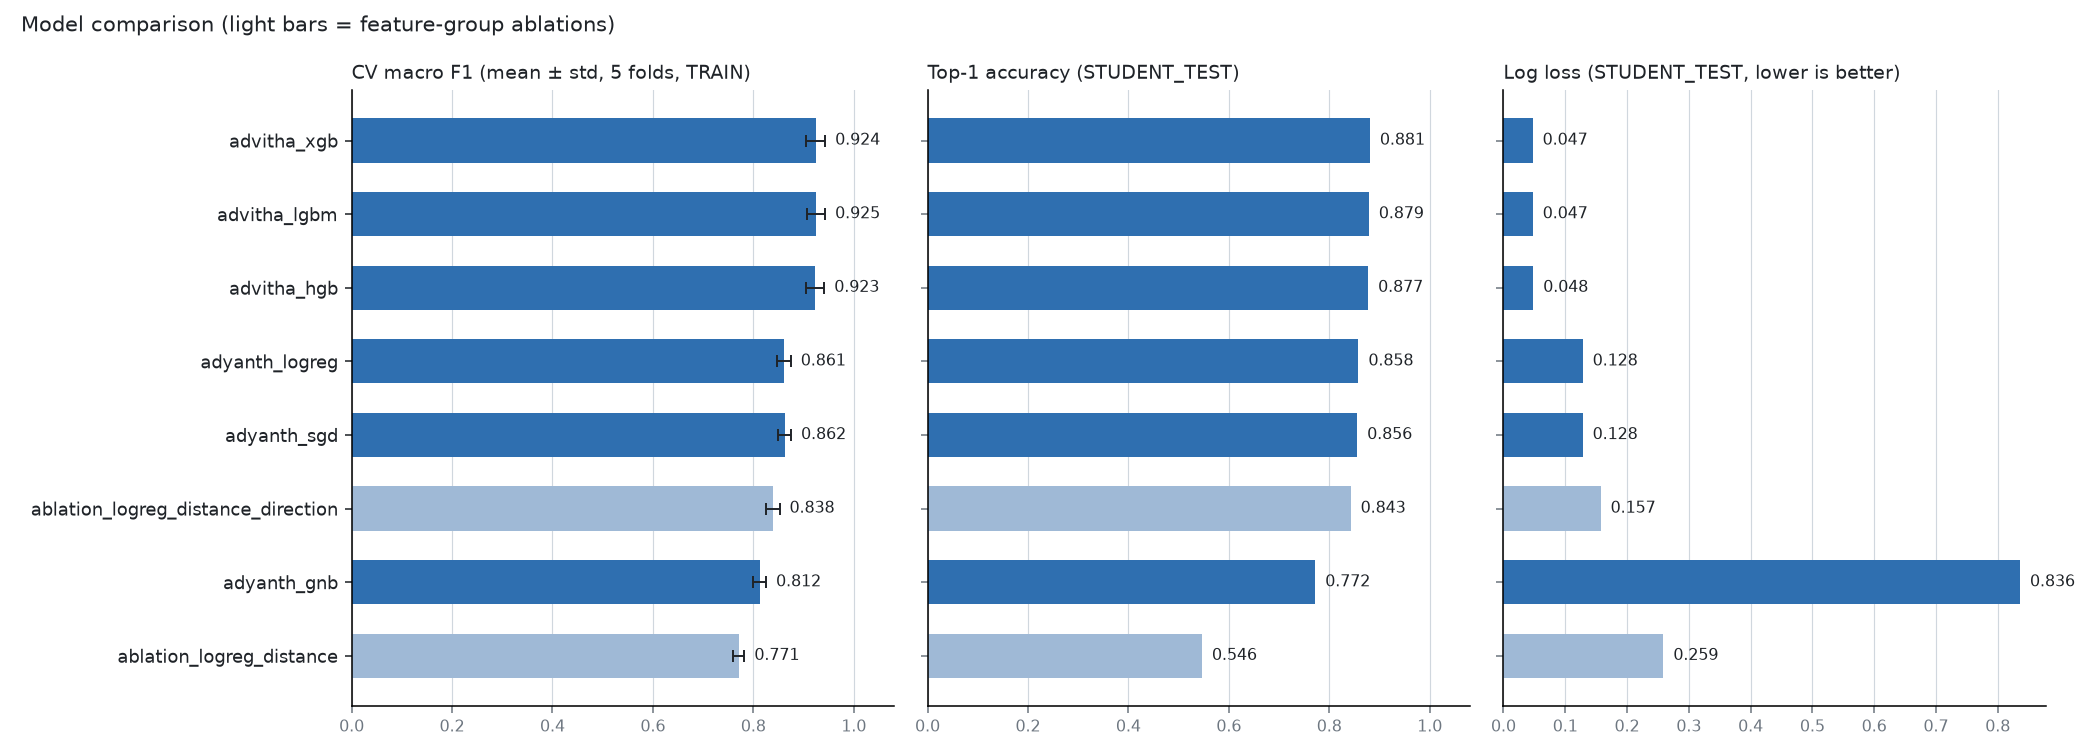
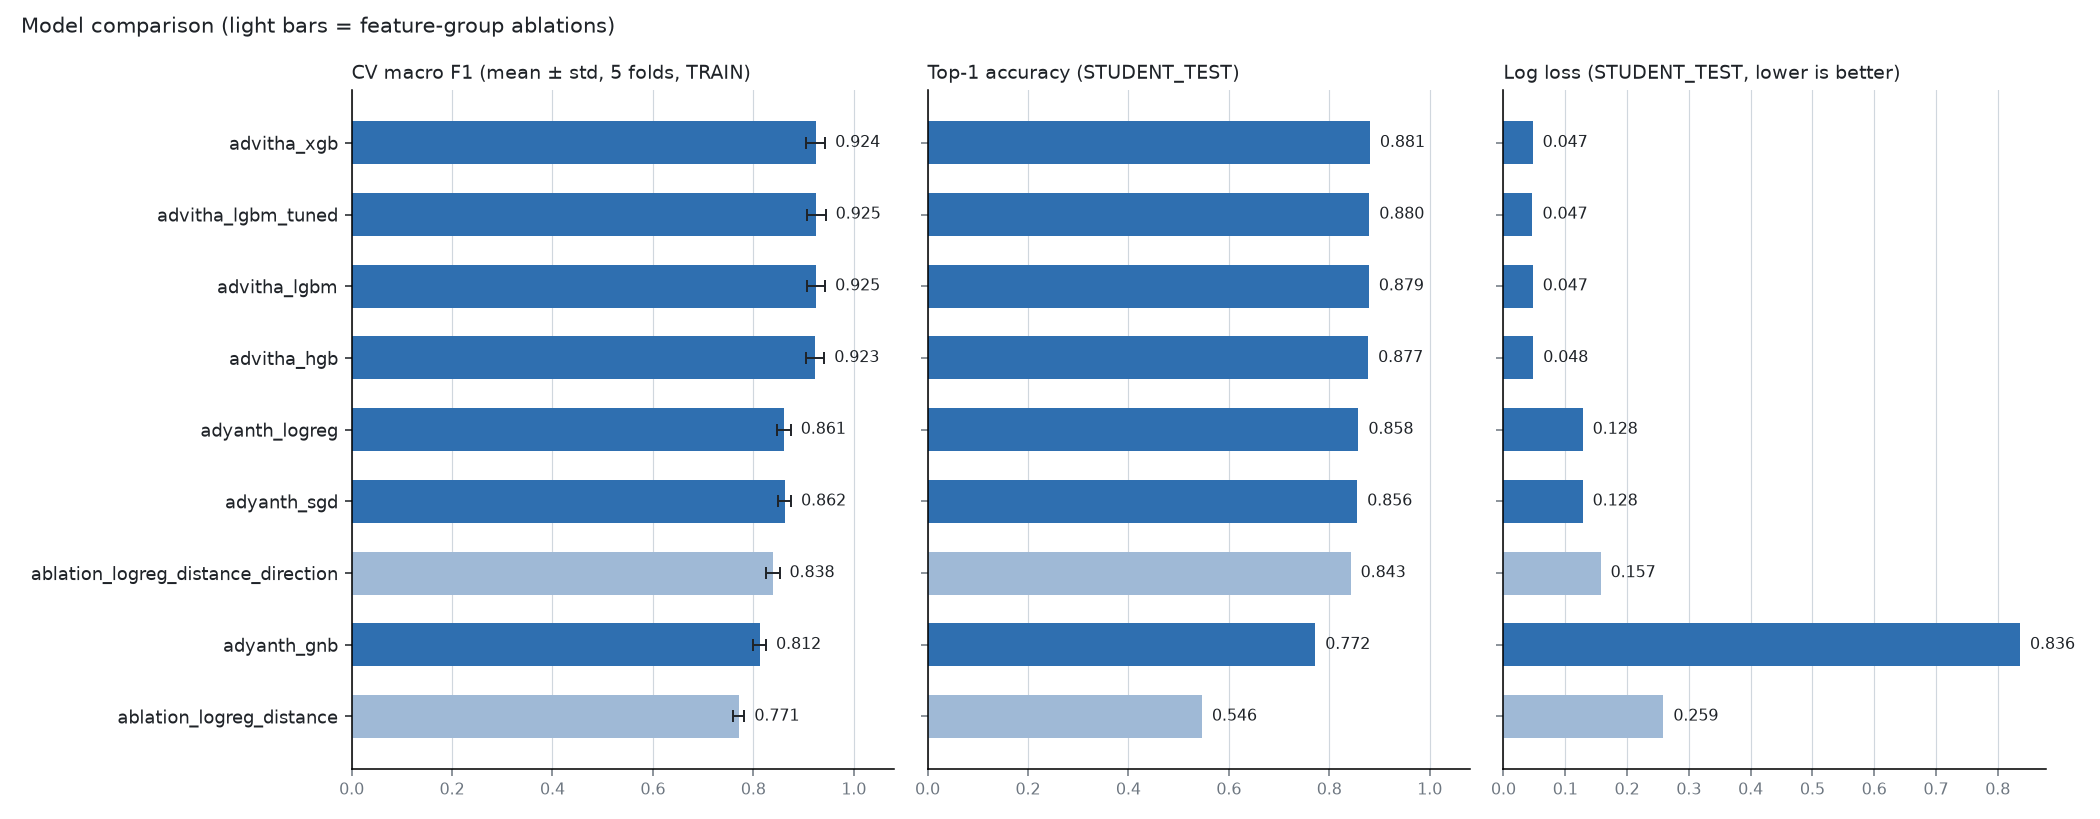
figures: CV macro F1 with fold spread and student_test confusion matrices for every model

diff --git a/scripts/cv_compare.py b/scripts/cv_compare.py
@@ -15,6 +15,7 @@ import matplotlib
 
 matplotlib.use("Agg")
 import matplotlib.pyplot as plt
+import numpy as np
 import pandas as pd
 
 from pathsnap.config import repo_path
@@ -84,7 +85,75 @@ def main() -> int:
     fig.suptitle("Model comparison (light bars = feature-group ablations)", x=0.01, ha="left", fontsize=11, color=INK)
     fig.tight_layout()
     fig.savefig(repo_path("experiments/figures/model_comparison.png"), dpi=140)
+    plt.close(fig)
+    results = {d["name"]: d for d in (json.loads(p.read_text())
+                                      for p in sorted(repo_path("experiments/results/models").glob("*.json")))}
+    models = [m for m in df[df.cv_macro_f1_mean.notna() & ~df.is_ablation.astype(bool)].model]
+    plot_cv_f1(models, results)
+    plot_confusion(models, results)
     return 0
+
+
+def _clean(ax):
+    for s in ("top", "right"):
+        ax.spines[s].set_visible(False)
+    ax.tick_params(colors=MUTED, labelsize=8)
+
+
+def plot_cv_f1(models: list[str], results: dict) -> None:
+    """CV macro F1 per model: large dot = mean, whisker = std over the 5 folds, small dots = each fold.
+    (A dot plot, not bars, because the axis does not start at 0.)"""
+    order = sorted(models, key=lambda n: results[n]["cv"]["macro_f1_mean"])
+    fig, ax = plt.subplots(figsize=(8, 0.5 * len(order) + 1.4))
+    for y, n in enumerate(order):
+        cv = results[n]["cv"]
+        ax.scatter(cv["macro_f1_folds"], [y] * len(cv["macro_f1_folds"]), s=12, color=ABL, zorder=2)
+        ax.errorbar(cv["macro_f1_mean"], y, xerr=cv["macro_f1_std"], fmt="o", color=BAR, ms=7,
+                    ecolor=INK, elinewidth=1, capsize=3, zorder=3)
+        ax.text(max(cv["macro_f1_folds"]) + 0.004, y, f"{cv['macro_f1_mean']:.3f} ± {cv['macro_f1_std']:.3f}",
+                va="center", fontsize=8, color=INK)
+    ax.set_yticks(range(len(order)), order)
+    ax.tick_params(axis="y", colors=INK, labelsize=9)
+    lo = min(min(results[n]["cv"]["macro_f1_folds"]) for n in order)
+    ax.set_xlim(max(0, lo - 0.03), 1.0)
+    ax.set_xlabel("macro F1 at threshold 0.5 (candidate level)", color=MUTED, fontsize=8)
+    ax.set_title("CV macro F1, TRAIN, GroupKFold(5) by trip: mean ± std (blue), each fold (light)", loc="left",
+                 fontsize=10, color=INK)
+    ax.grid(axis="x", color="#d0d7de", lw=0.6)
+    ax.set_axisbelow(True)
+    _clean(ax)
+    fig.tight_layout()
+    fig.savefig(repo_path("experiments/figures/cv_macro_f1.png"), dpi=140)
+    plt.close(fig)
+
+
+def plot_confusion(models: list[str], results: dict) -> None:
+    """Student-test confusion matrices (threshold 0.5), row-normalised colour, counts printed."""
+    order = sorted(models, key=lambda n: -results[n]["student_test"]["top1"])
+    cols = min(4, len(order))
+    rows = -(-len(order) // cols)
+    fig, axs = plt.subplots(rows, cols, figsize=(3.1 * cols, 3.0 * rows), squeeze=False)
+    for ax in axs.flat[len(order):]:
+        ax.axis("off")
+    for ax, n in zip(axs.flat, order):
+        cm = np.array(results[n]["student_test"]["confusion_matrix"], dtype=float)
+        norm = cm / cm.sum(axis=1, keepdims=True)
+        ax.imshow(norm, cmap="Blues", vmin=0, vmax=1)
+        for i in range(2):
+            for j in range(2):
+                ax.text(j, i, f"{int(cm[i, j]):,}\n{norm[i, j]:.1%}", ha="center", va="center", fontsize=8,
+                        color="white" if norm[i, j] > 0.55 else INK)
+        ax.set_xticks([0, 1], ["pred 0", "pred 1"])
+        ax.set_yticks([0, 1], ["true 0", "true 1"])
+        ax.tick_params(labelsize=8, colors=MUTED, length=0)
+        ax.set_title(f"{n}\nTop-1 {results[n]['student_test']['top1']:.3f}", fontsize=9, color=INK)
+        for s in ax.spines.values():
+            s.set_visible(False)
+    fig.suptitle("Confusion matrices, STUDENT_TEST candidates, threshold 0.5 (row-normalised; 1 = true arc)",
+                 x=0.01, ha="left", fontsize=10, color=INK)
+    fig.tight_layout()
+    fig.savefig(repo_path("experiments/figures/confusion_matrices.png"), dpi=140)
+    plt.close(fig)
 
 
 if __name__ == "__main__":
